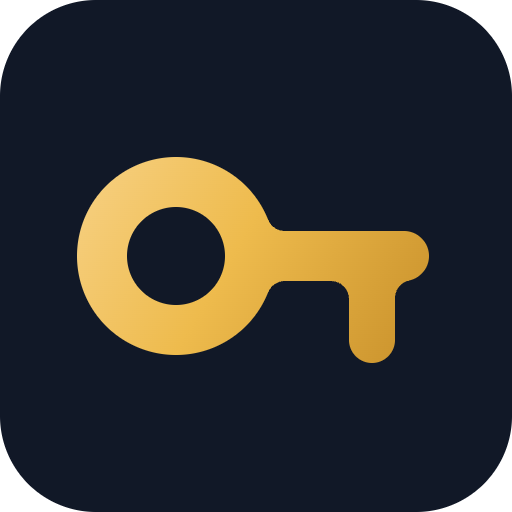
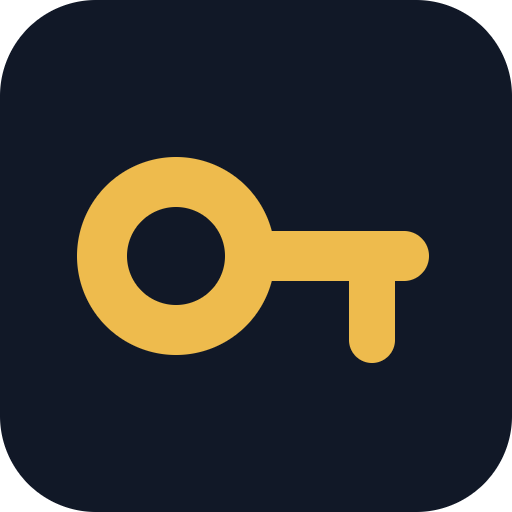
The key is build 5's flat gold again, and the size check is an equality
Owner's call from the build 8 device pass: the gradient (build 6) and
the filleted junctions (build 8) both tried to make the mark read as
struck metal, and neither did. The shape is what wants redrawing, and
that redraw is his own project, so public/favicon.svg holds build 5's
artwork — verified shape for shape against 17f554a — and nothing else.
iOS 26 still composites its glass and specular pass over the .icon
layer, which is the only lighting this mark gets now.

The pipeline stays: one source, actool compiling the bundle locally,
the layered-vs-flat comparison.

THE SIZE CHECK IS NOW AN EQUALITY, not a floor. It asserts the mark
spans 68.8% of the tile — build 5's composition — within 1.5 points.
A floor only catches a key that shrank; build 6's filled a third of
the tile and build 8's fillets widened the silhouette, and a floor
passes the second one. Proved both directions: a shrunken key fails on
the gold area, a shaft lengthened to x=440 fails at 75.7% vs 68.8%.

<defs> is optional now. Requiring one made deleting the gradient a
failing build, which is the check obstructing the fix.

Also generates public/google-branding-120.png from the same source,
for Google's OAuth consent screen.

Backlog 18b records the redraw as the owner's.

Claude-Session: https://claude.ai/code/session_014RXrbxHi3PGPDUTQj5hTbn

diff --git a/PROJECT_SPEC.md b/PROJECT_SPEC.md
@@ -96,7 +96,12 @@ left, shaft right, teeth under the tip) on gray-900 (`#111827`), sized to about
 corners itself and fills any transparency with black), rounded for the browser
 tab. The small sizes use a ONE-tooth key in flat gold because at 16px two teeth
 merge into a single blob and a gradient just muddies; ring and shaft are
-identical across both builds so it stays one key. Any gradient here must use
+identical across both builds so it stays one key. **The mark is FLAT gold
+(`#eebb4d`) — build 5's artwork, restored 2026-10-15 after builds 6-8 tried a
+metallic gradient and then fillets on its concave junctions.** Lighting belongs
+to iOS 26, which composites its own glass and specular pass over the `.icon`
+layer; a second one underneath read as plastic, and the shape is what wants
+redrawing (backlog). If a gradient is ever tried again it must use
 `gradientUnits="userSpaceOnUse"` — the shaft and teeth are straight lines with
 zero-height/width bounding boxes, and a default objectBoundingBox gradient is
 degenerate on those, so they silently do not paint at all. `theme-color` is
@@ -584,7 +589,12 @@ written here in the same sitting** — there is no other record of it.
       shared About copy described it, so `AboutOnly` exists now — the
       per-block platform variant the 2026-09-24 audit asked for, built
       for the first line that needed it.
-  12. **The key's junctions are filleted.** Three strokes unioned by
+  12. **The key's junctions are filleted.** ~~Reverted in build 9~~ —
+      see band G item 24; the artwork is build 5's again and a redrawn
+      key is the owner's own project. The two generator bugs this
+      found are still fixed and still worth the entry.
+
+      Three strokes unioned by
       overlap met in four unfilleted concave corners; at 60pt, with
       iOS 26 tracing its own specular pass along the silhouette, a
       highlight that stops dead at a corner reads as a cropped bevel.
@@ -1941,9 +1951,23 @@ Needs no build and no TestFlight, so none of it is blocked by band A.
       wide.
 
     `public/favicon.svg` is finally the single source: the generator
-    parses its `<defs>` and `<g id="mark">` rather than restating the
-    geometry, and the nine web rasters — hand-exported once and stale
-    ever since — are generated from it too.
+    parses its optional defs and its mark group rather than restating
+    the geometry, and the web rasters — hand-exported once and stale
+    ever since — are generated from it too, including the 120x120
+    `public/google-branding-120.png` that Google's OAuth consent
+    screen shows.
+
+    **REVERTED 2026-10-15, to build 5's artwork exactly.** The
+    gradient and the fillets are gone; the mark is flat `#eebb4d`
+    again. Owner's call from a device pass on build 8: a redrawn key
+    is his own future project, so the drawing holds at the last
+    composition that looked right. What stayed is the pipeline — one
+    source, actool compiling the `.icon` locally, and the size check,
+    which is now an EQUALITY against build 5's 68.8% span with 1.5
+    points of slack rather than a floor. A floor passes a key that
+    grew; build 6's key was a third of the tile, and build 8's
+    fillets widened the silhouette. `<defs>` is optional now, since
+    requiring one made removing the gradient a failing build.
 
     *The original entry:* **DONE 2026-10-09.** It was the blue chevron on pale blue with the layout
     guides still visible, found by looking at the file after a handoff
@@ -1998,6 +2022,23 @@ Needs no build and no TestFlight, so none of it is blocked by band A.
     session, offered in Settings beside the provider list that is
     already there. Not urgent: it needs somebody to have hit it, and
     the first external testers will say whether anyone does.
+
+18b. **Redraw the key.** Raised 2026-10-15, and it is the OWNER'S
+    project, not an agent's. Builds 6-8 tried to make the mark read as
+    struck metal with a gradient and then with filleted junctions, and
+    the device pass on each said the same thing: the lighting is not
+    the problem, the shape is. Build 9 reverts to build 5's flat
+    artwork and holds there. Whatever replaces it goes through
+    `public/favicon.svg` and nowhere else, and the generator's
+    `BUILD_5_SPAN` check is the thing to update deliberately when it
+    does.
+
+18c. **A "Schedule contributions" link on a new account's Dashboard
+    card**, as an alternative to the post-add prompt. Raised
+    2026-10-15, UNDER CONSIDERATION — the prompt that exists is
+    dismissible and only appears once, so the link would be the way
+    back to it afterwards. The current post-add prompt stays as it is
+    until this is decided.
 
 19. Multi-account model (payment method per transaction, credit cards
     with limits). The one deliberate architectural step still ahead.
